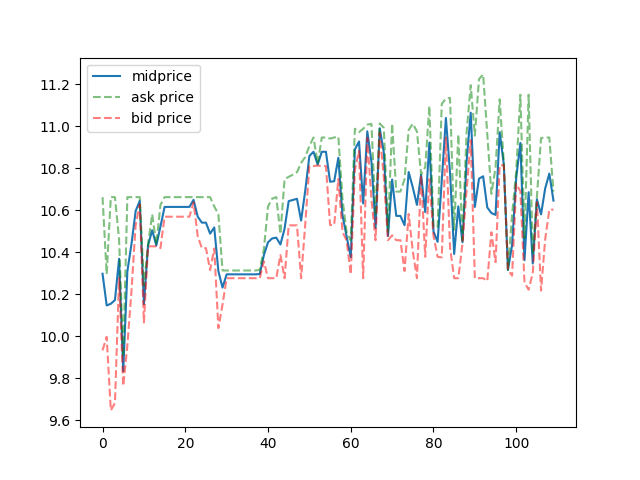
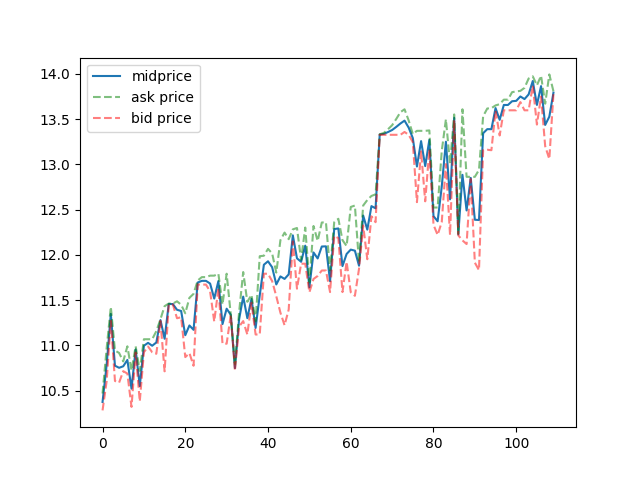
parameters fixed

diff --git a/classes/policies/moving_average_crossover.py b/classes/policies/moving_average_crossover.py
@@ -1,7 +1,7 @@
 
 
 class MovingAverageCrossover:
-    def __init__(self, initial_amount=0, money=0, short_window=10, long_window=30, size_trade=10):
+    def __init__(self, initial_amount=0, money=0, short_window=10, long_window=30, size_trade=10, time_horizon=1000):
         """
         Inizializza lo stratega del Moving Average Crossover.
 
@@ -15,9 +15,12 @@ class MovingAverageCrossover:
         self.money = money
         self.short_window = short_window
         self.long_window = long_window
-        self.prices = [] 
+        self.prices = []
+        self.action_history = [] 
         self.current_signal = "hold"
         self.size_trade = size_trade
+        self.time_horizon = time_horizon
+        self.t = 0
 
     def update(self, action, price, revenue, remaining):
         """
@@ -35,7 +38,7 @@ class MovingAverageCrossover:
         else:
             self.current_amount = self.current_amount + action[1] - remaining
 
-        self.money -= revenue
+        self.money += revenue
         self.observe_price(price)
 
     def observe_price(self, price):
@@ -64,6 +67,9 @@ class MovingAverageCrossover:
     def trade(self):
         # we have to take into account that if we buy immediately a big quantity of a given stock, 
         # the price could be much different than the midprice, depending on the depth of the order book
+        self.t += 1
+        if self.size_trade*(self.time_horizon - self.t - 1)<self.current_amount:
+            return "sell", min(self.size_trade, self.current_amount)
 
         if self.current_signal == "hold":
             # holding corresponds to buying zero

diff --git a/classes/market_simulator.py b/classes/market_simulator.py
@@ -18,7 +18,7 @@ class MarketSimulator:
         alpha (float): Parameter for order size distribution.
     """
 
-    def __init__(self, mu_bid: float, mu_ask: float, sd: float, Lambda: int = 10, alpha: float = 1.53):
+    def __init__(self, mu_bid: float, mu_ask: float, sd: float, Lambda: int = 10, alpha: float = 1.53, exponential_update: bool = True):
         """
         Initializes the MarketSimulator.
 
@@ -36,7 +36,7 @@ class MarketSimulator:
         self.sd = sd
         self.Lambda = Lambda
         self.alpha = alpha
-        self.exponential_update = True
+        self.exponential_update = exponential_update
         self.t = 0
 
     def set_horizon(self, hor):
@@ -123,6 +123,16 @@ class MarketSimulator:
         self.midprice_history[self.t] = np.clip(midprice, self.mu_bid / 2, self.mu_ask * 2)
         self.ask_history[self.t] = np.clip(ask, self.mu_bid / 2, self.mu_ask * 2)
         self.bid_history[self.t] = np.clip(bid, self.mu_bid / 2, self.mu_ask * 2)
+
+        # Apply drift to move the price means over time
+        if self.exponential_update:
+            self.mu_ask *= (1+self.drift)
+            self.mu_bid *= (1+self.drift)
+            self.sd *= (1+self.drift)
+        else:    
+            self.mu_bid += self.drift
+            self.mu_ask += self.drift
+            self.sd += self.drift
 
         self.t += 1
         return midprice, revenue, remaining

diff --git a/main_prova.py b/main_prova.py
@@ -5,13 +5,13 @@ import matplotlib.pyplot as plt
 # buyer, you pay the ask price
 # seller, you receive the bid price
 
-mar = MarketSimulator(mu_bid=10.5, mu_ask=11.0, sd=1.0, Lambda=15)
-policy = MovingAverageCrossover(short_window=5, long_window=10, size_trade=5)
+mar = MarketSimulator(mu_bid=10.5, mu_ask=11.0, sd=1.0, Lambda=50)
 
-time_horizon = 1000
+time_horizon = 300
 name = 'price_variation_hor_{}'.format(time_horizon)
+policy = MovingAverageCrossover(short_window=20, long_window=50, size_trade=5, time_horizon=time_horizon)
 
-mar.set_drif(0.001)
+mar.set_drif(0.0005)
 mar.set_horizon(time_horizon)
 
 mar.reset(warmup=10)
@@ -22,6 +22,8 @@ for t in range(time_horizon):
     if t % 100 == 0:
         print(policy.current_amount, policy.money)
 
+print("final revenue:")
+print(policy.current_amount, policy.money)
 
 plt.plot(mar.midprice_history, label='midprice')
 plt.plot(mar.ask_history, label='ask price', color='g', alpha=0.5, linestyle='dashed')
